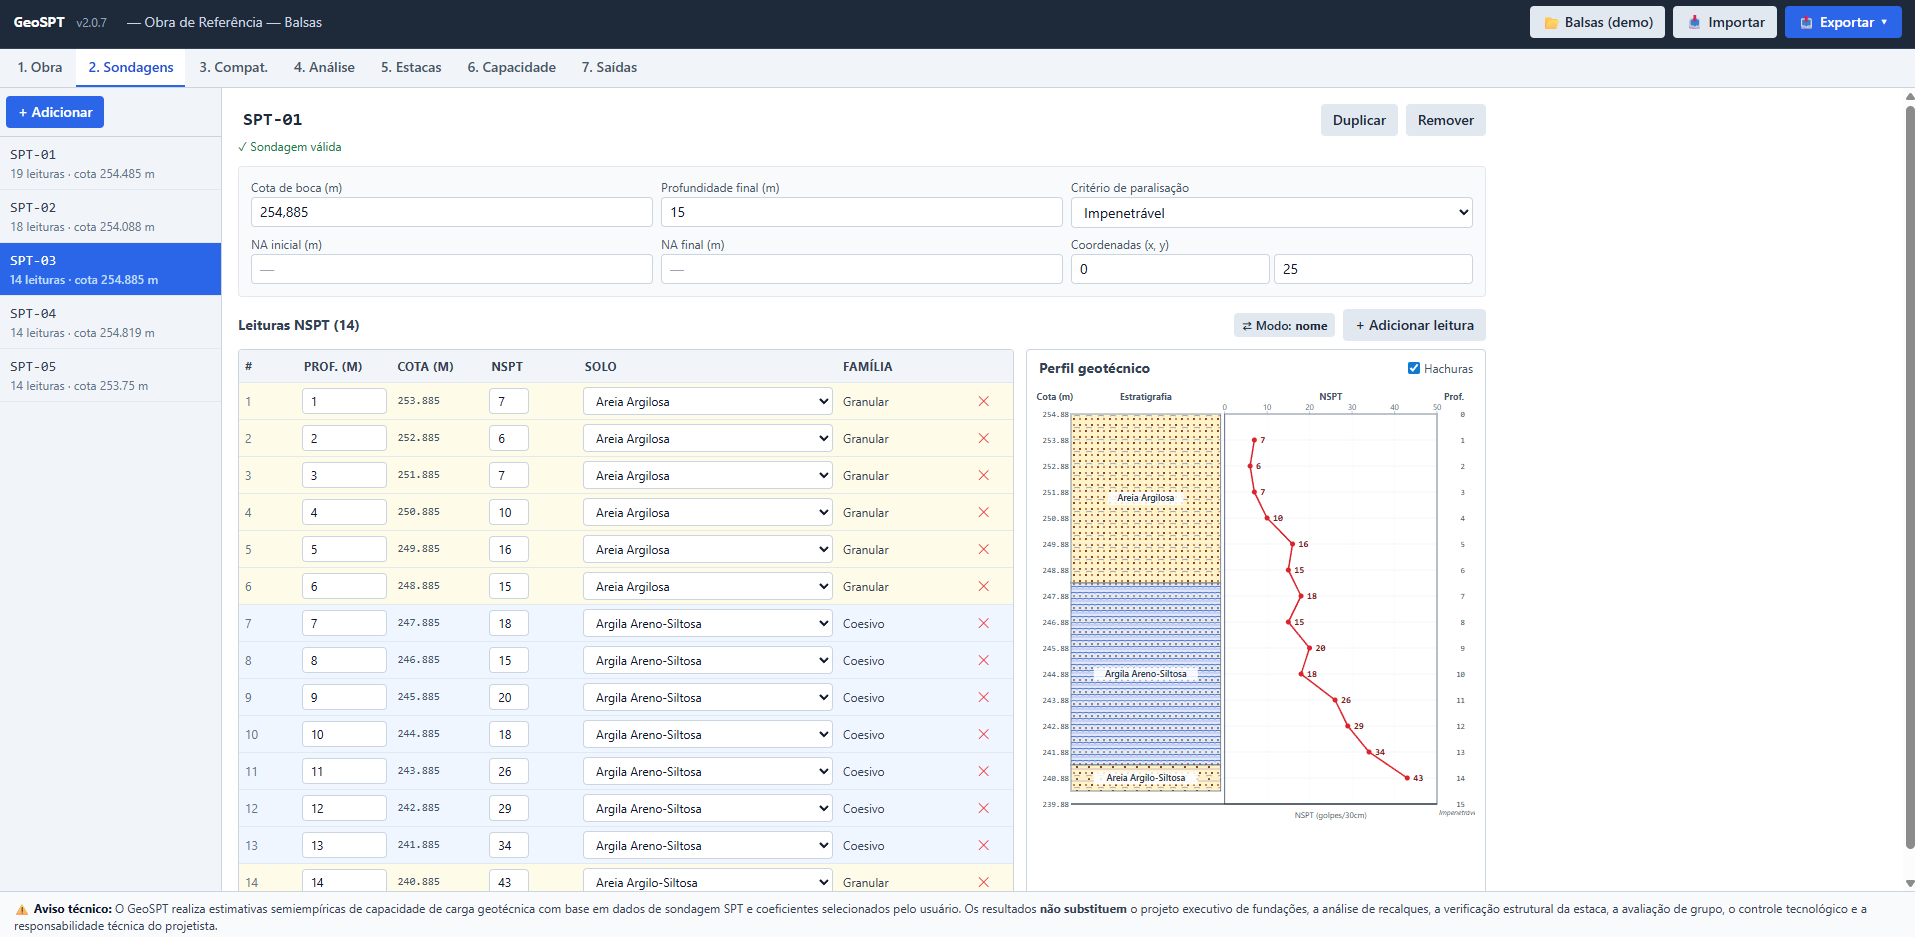
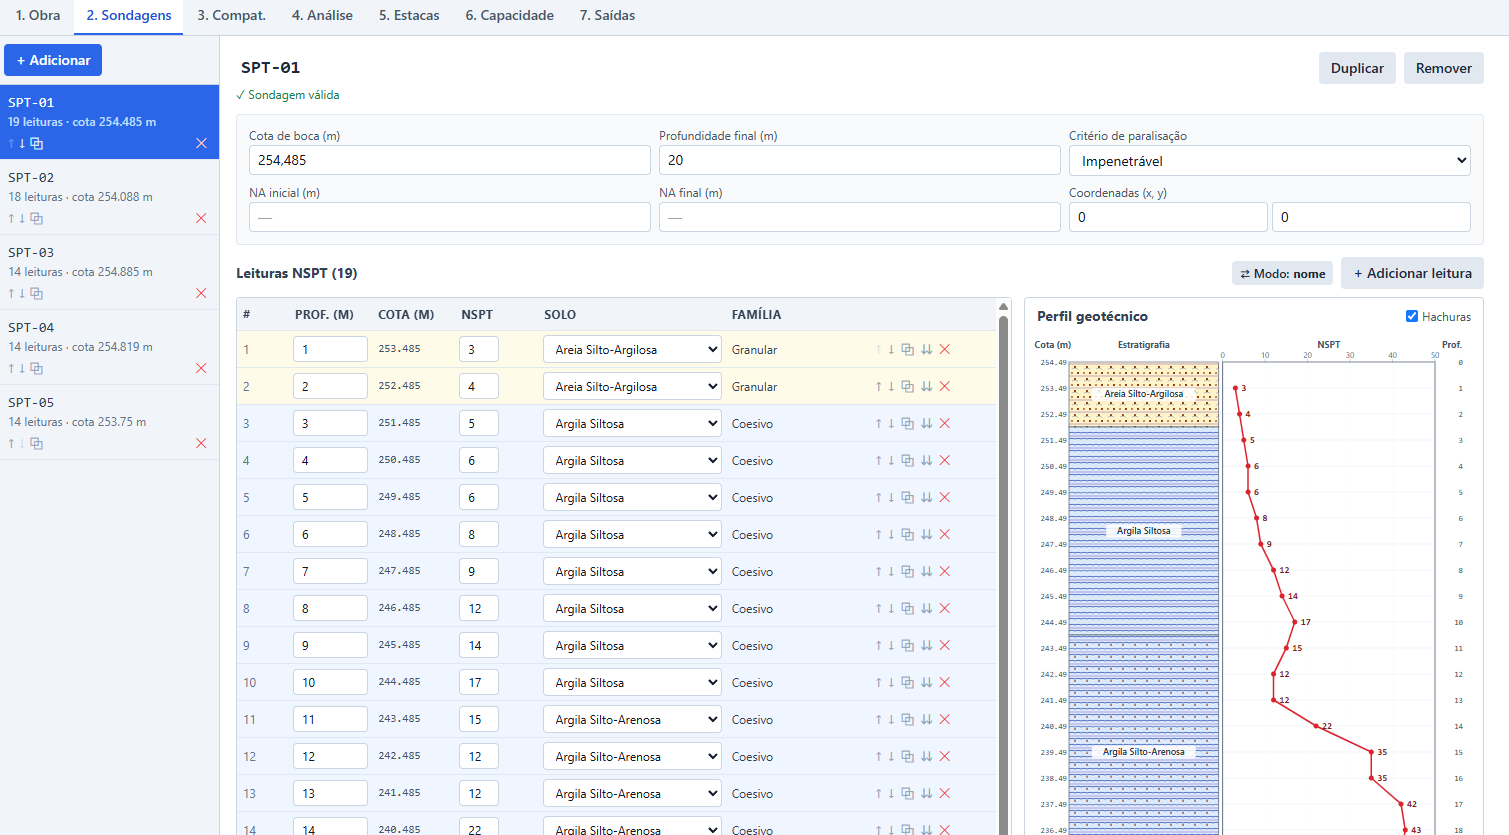
Documenta botoes da tabela de leituras NSPT no manual (5.2) + atualiza print
Explica os botoes de acao (mover, duplicar, uniformizar abaixo, remover)
ao lado da coluna Familia na Aba 2, com destaque para "uniformizar
abaixo". Screenshot 02_sondagem-nspt.png atualizado pelo usuario.

diff --git a/public/manual.html b/public/manual.html
@@ -342,8 +342,14 @@ npm run preview</code></pre>
   <li>Clique em <code>+ Adicionar</code> na barra lateral para criar uma sondagem.</li>
   <li>Selecione uma sondagem na lista para editá-la no painel principal.</li>
   <li>Preencha, para cada furo: nome, cota de topo, profundidade final, critério de paralisação (ex.: impenetrável), nível d'água e as leituras de NSPT metro a metro.</li>
-  <li>Para remover, use o botão de exclusão (com confirmação).</li>
+  <li>Cada leitura tem, à direita da coluna <strong>Família</strong>, um grupo de botões de ação: <code>↑</code> / <code>↓</code> movem os dados (NSPT, solo, família) para a leitura adjacente, mantendo a coluna de profundidade fixa; <code>⧉</code> duplica a leitura logo abaixo; <code>⇊</code> (<strong>uniformizar abaixo</strong>) repete o solo desta leitura em <strong>todas as leituras abaixo dela</strong> na mesma sondagem; <code>✕</code> remove a leitura.</li>
+  <li>Para remover a sondagem inteira, use o botão de exclusão no cabeçalho do painel (com confirmação).</li>
 </ol>
+
+<div class="callout tip">
+  <div class="callout-title">Uniformizar abaixo</div>
+  Em trechos longos e homogêneos (a mesma camada de solo se repetindo por várias leituras), em vez de selecionar o solo linha a linha, defina-o na primeira leitura do trecho e clique em <code>⇊</code>: o solo (e a família derivada) é copiado para todas as leituras abaixo, até o fim da sondagem. O botão fica desabilitado quando a leitura não tem solo selecionado ou é a última do furo. A ação sobrescreve o solo já preenchido nas leituras abaixo — revise antes de aplicar se parte do trecho já tinha sido classificada.
+</div>
 
 <div class="callout info">
   <div class="callout-title">Trecho impenetrável / NSPT acima do limite</div>
